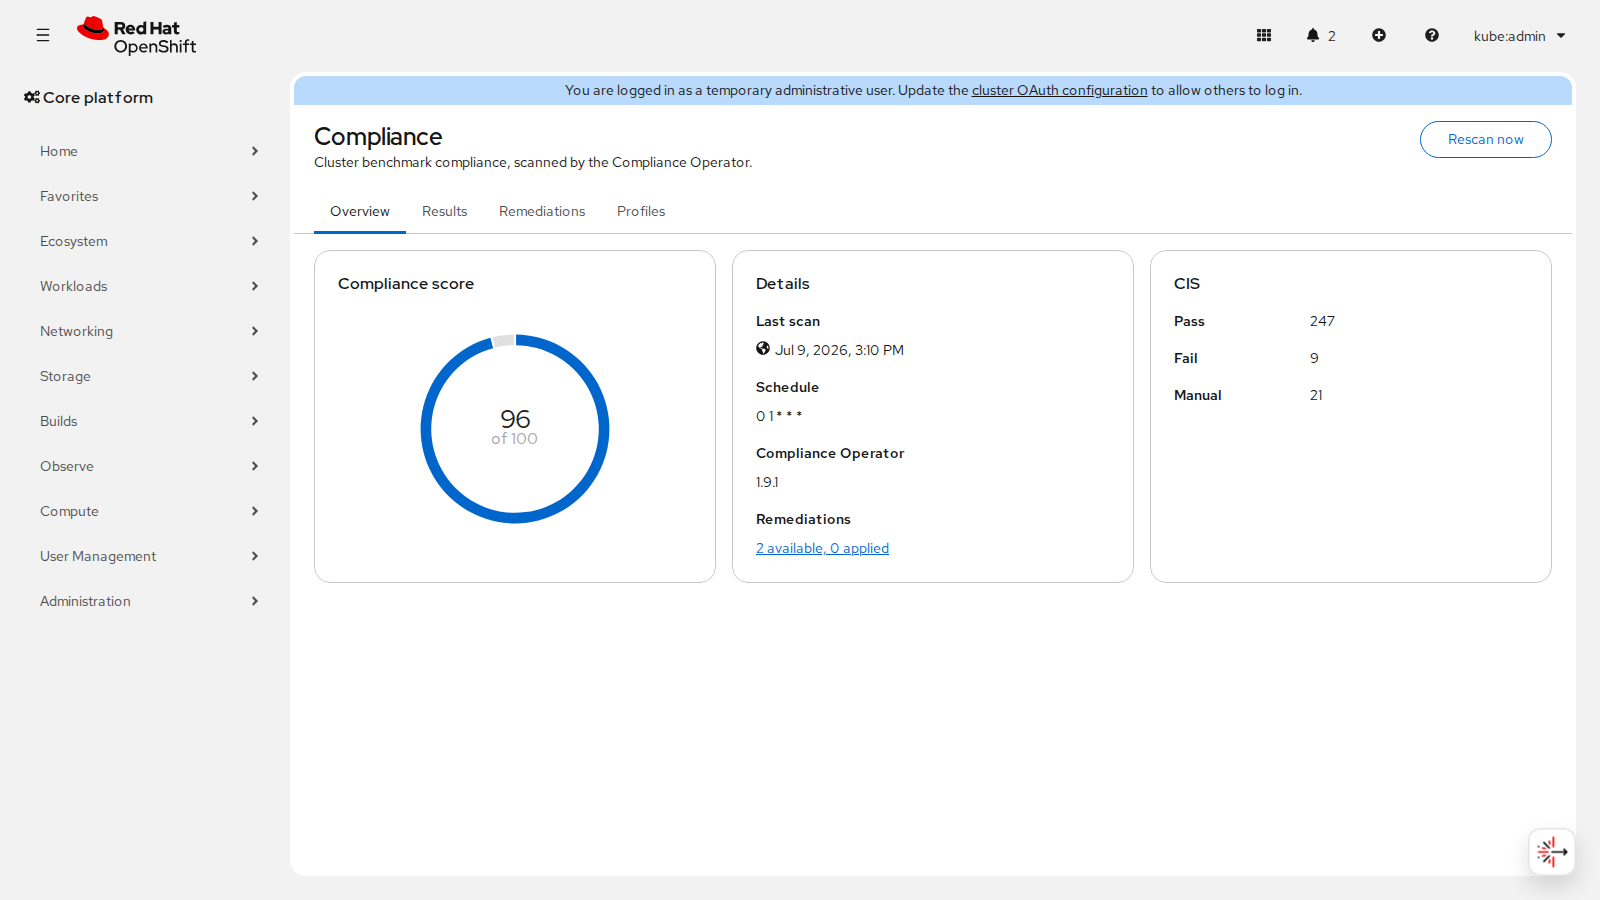
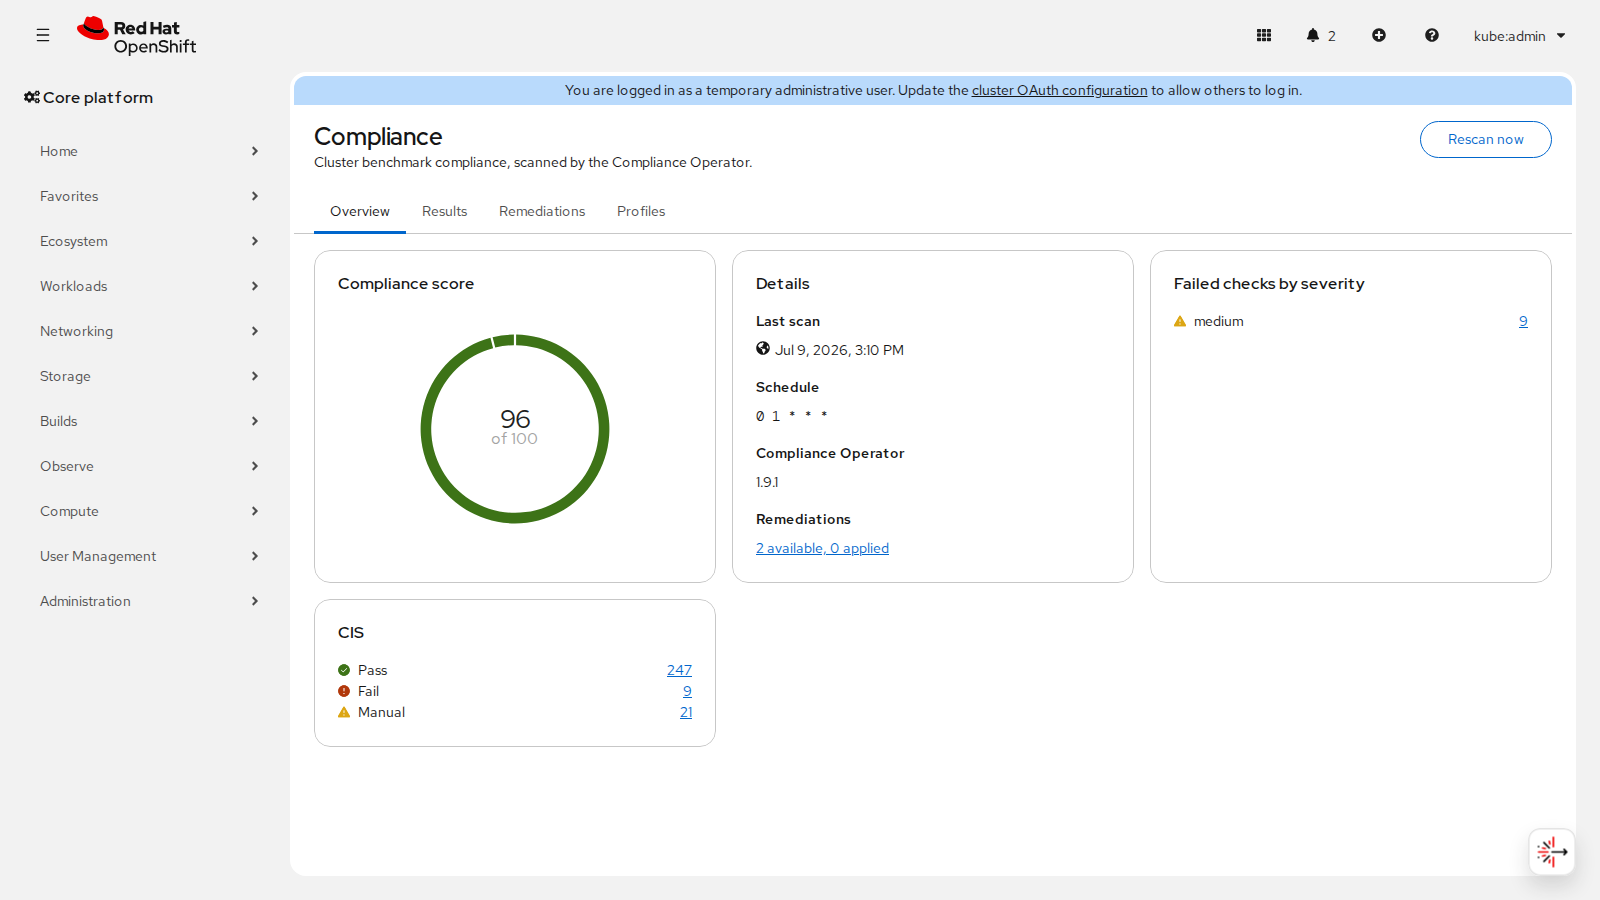
Overview polish: semantic score color, severity card, linked counts
- donut colored by score (success/warning/danger PatternFly tokens)
- failed-checks-by-severity card
- profile cards use status icons; pass/fail/manual counts link to the
  pre-filtered results tab (rowFilter query params)
- schedule rendered as code; refreshed screenshots

diff --git a/console-plugin/src/components/Overview.tsx b/console-plugin/src/components/Overview.tsx
@@ -18,15 +18,54 @@ import {
   DescriptionListTerm,
   EmptyState,
   EmptyStateBody,
+  Flex,
+  FlexItem,
   Gallery,
+  Icon,
   PageSection,
   Spinner,
 } from '@patternfly/react-core';
 import {
+  CheckCircleIcon,
+  ExclamationCircleIcon,
+  ExclamationTriangleIcon,
+} from '@patternfly/react-icons';
+import {
   ClusterBaseline,
+  ComplianceCheckResult,
+  ComplianceCheckResultGVK,
   ComplianceRemediation,
   ComplianceRemediationGVK,
 } from '../models';
+
+// PatternFly semantic status colors (chart fills).
+const scoreColor = (score?: number) =>
+  score == null || score < 60
+    ? 'var(--pf-t--global--icon--color--status--danger--default)'
+    : score < 90
+      ? 'var(--pf-t--global--icon--color--status--warning--default)'
+      : 'var(--pf-t--global--icon--color--status--success--default)';
+
+const resultsHref = (filter: string) =>
+  `/baseline-security/results?rowFilter-result-status=${filter}`;
+
+const CountRow: React.FC<{
+  icon: React.ReactElement;
+  status: React.ComponentProps<typeof Icon>['status'];
+  label: string;
+  count: number;
+  href?: string;
+}> = ({ icon, status, label, count, href }) => (
+  <Flex gap={{ default: 'gapSm' }} alignItems={{ default: 'alignItemsCenter' }}>
+    <FlexItem>
+      <Icon status={status} size="sm">
+        {icon}
+      </Icon>
+    </FlexItem>
+    <FlexItem grow={{ default: 'grow' }}>{label}</FlexItem>
+    <FlexItem>{href && count > 0 ? <a href={href}>{count}</a> : count}</FlexItem>
+  </Flex>
+);
 
 const Overview: React.FC<{ baseline?: ClusterBaseline; loaded: boolean }> = ({
   baseline,
@@ -35,6 +74,11 @@ const Overview: React.FC<{ baseline?: ClusterBaseline; loaded: boolean }> = ({
   const { t } = useTranslation('plugin__baseline-security-console-plugin');
   const [remediations] = useK8sWatchResource<ComplianceRemediation[]>({
     groupVersionKind: ComplianceRemediationGVK,
+    isList: true,
+    namespace: 'openshift-compliance',
+  });
+  const [results] = useK8sWatchResource<ComplianceCheckResult[]>({
+    groupVersionKind: ComplianceCheckResultGVK,
     isList: true,
     namespace: 'openshift-compliance',
   });
@@ -65,10 +109,20 @@ const Overview: React.FC<{ baseline?: ClusterBaseline; loaded: boolean }> = ({
   );
   const score = baseline.status?.score;
 
+  const failBySeverity: Record<string, number> = {};
+  for (const r of results ?? []) {
+    if (r.status === 'FAIL') failBySeverity[r.severity] = (failBySeverity[r.severity] ?? 0) + 1;
+  }
+
   return (
     <PageSection>
       {degraded && (
-        <Alert variant="warning" isInline title={t('Scanning degraded')}>
+        <Alert
+          variant="warning"
+          isInline
+          title={t('Scanning degraded')}
+          style={{ marginBottom: 'var(--pf-t--global--spacer--md)' }}
+        >
           {degraded.message}
         </Alert>
       )}
@@ -81,8 +135,7 @@ const Overview: React.FC<{ baseline?: ClusterBaseline; loaded: boolean }> = ({
               data={{ x: t('Score'), y: score ?? 0 }}
               title={score != null ? `${score}` : '—'}
               subTitle={t('of 100')}
-              thresholds={[{ value: 60 }, { value: 90 }]}
-              invert
+              colorScale={[scoreColor(score)]}
               height={200}
               width={300}
             />
@@ -105,7 +158,7 @@ const Overview: React.FC<{ baseline?: ClusterBaseline; loaded: boolean }> = ({
               <DescriptionListGroup>
                 <DescriptionListTerm>{t('Schedule')}</DescriptionListTerm>
                 <DescriptionListDescription>
-                  {baseline.spec.schedule ?? '—'}
+                  <code>{baseline.spec.schedule ?? '—'}</code>
                 </DescriptionListDescription>
               </DescriptionListGroup>
               <DescriptionListGroup>
@@ -128,6 +181,25 @@ const Overview: React.FC<{ baseline?: ClusterBaseline; loaded: boolean }> = ({
             </DescriptionList>
           </CardBody>
         </Card>
+        {Object.keys(failBySeverity).length > 0 && (
+          <Card>
+            <CardTitle>{t('Failed checks by severity')}</CardTitle>
+            <CardBody>
+              {['high', 'medium', 'low', 'unknown']
+                .filter((s) => failBySeverity[s])
+                .map((s) => (
+                  <CountRow
+                    key={s}
+                    icon={s === 'high' ? <ExclamationCircleIcon /> : <ExclamationTriangleIcon />}
+                    status={s === 'high' ? 'danger' : 'warning'}
+                    label={s}
+                    count={failBySeverity[s]}
+                    href={resultsHref('FAIL')}
+                  />
+                ))}
+            </CardBody>
+          </Card>
+        )}
         {(baseline.status?.history?.length ?? 0) > 1 && (
           <Card>
             <CardTitle>{t('Score trend')}</CardTitle>
@@ -158,20 +230,27 @@ const Overview: React.FC<{ baseline?: ClusterBaseline; loaded: boolean }> = ({
           <Card key={p.key}>
             <CardTitle>{p.key.toUpperCase()}</CardTitle>
             <CardBody>
-              <DescriptionList isCompact isHorizontal>
-                <DescriptionListGroup>
-                  <DescriptionListTerm>{t('Pass')}</DescriptionListTerm>
-                  <DescriptionListDescription>{p.pass}</DescriptionListDescription>
-                </DescriptionListGroup>
-                <DescriptionListGroup>
-                  <DescriptionListTerm>{t('Fail')}</DescriptionListTerm>
-                  <DescriptionListDescription>{p.fail}</DescriptionListDescription>
-                </DescriptionListGroup>
-                <DescriptionListGroup>
-                  <DescriptionListTerm>{t('Manual')}</DescriptionListTerm>
-                  <DescriptionListDescription>{p.manual}</DescriptionListDescription>
-                </DescriptionListGroup>
-              </DescriptionList>
+              <CountRow
+                icon={<CheckCircleIcon />}
+                status="success"
+                label={t('Pass')}
+                count={p.pass}
+                href={resultsHref('PASS')}
+              />
+              <CountRow
+                icon={<ExclamationCircleIcon />}
+                status="danger"
+                label={t('Fail')}
+                count={p.fail}
+                href={resultsHref('FAIL')}
+              />
+              <CountRow
+                icon={<ExclamationTriangleIcon />}
+                status="warning"
+                label={t('Manual')}
+                count={p.manual}
+                href={resultsHref('MANUAL')}
+              />
             </CardBody>
           </Card>
         ))}